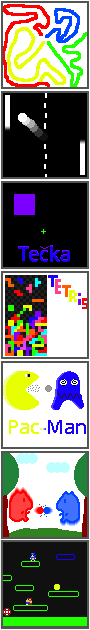
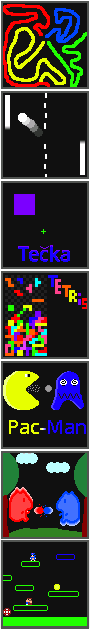
menu pos bar

Changed region(s): [[0.0222, 0.4222, 0.9778, 0.8444], [0.0222, 0.0, 0.9778, 0.1508]]

diff --git a/src/menu/main.c b/src/menu/main.c
@@ -5,12 +5,15 @@
 
 #include <icons.png.h>
 #include <text.png.h>
+#include <select.png.h>
 
 #define GRAY rgb_to_rgb565(63, 63, 63)
 
 // button
 struct b {
-	float s; //select
+	float s;  //select
+	float g;  //game numer
+	float wp; //wall pos
 };
 
 static struct b b;
@@ -30,6 +33,8 @@ TileType map[15][20] = {
 void game_reset(void)
 {
 	b.s = 0;
+	b.g = 7;
+	b.wp = 60;
 }
 
 void game_input(unsigned dt_usec)
@@ -45,10 +50,25 @@ void game_paint(unsigned __unused dt_usec)
 {
 	tft_fill(0);
 
-	sdk_draw_tile(0 + b.s, 0, &ts_text_png, 0);
+	sdk_draw_tile(0, 0, &ts_text_png, 0);
 	sdk_draw_tile(35, 15, &ts_icons_png, b.s);
 	sdk_draw_tile(-65, 20, &ts_icons_png, b.s - 1);
 	sdk_draw_tile(135, 20, &ts_icons_png, b.s + 1);
+
+	for (int i = b.wp; i < b.g * 4 + b.wp; i += 4) {
+		sdk_draw_tile(i, 1, &ts_select_png, 0);
+	}
+
+	for (int i = b.wp; i < b.g * 4 + b.wp; i += 4) {
+		if (b.s * 4 + b.wp == i) {
+			sdk_draw_tile(i, 1, &ts_select_png, 1);
+		}
+	}
+
+	if (b.s > b.g)
+		b.s = 0;
+	if (b.s < 0)
+		b.s = b.g;
 }
 
 int main()
